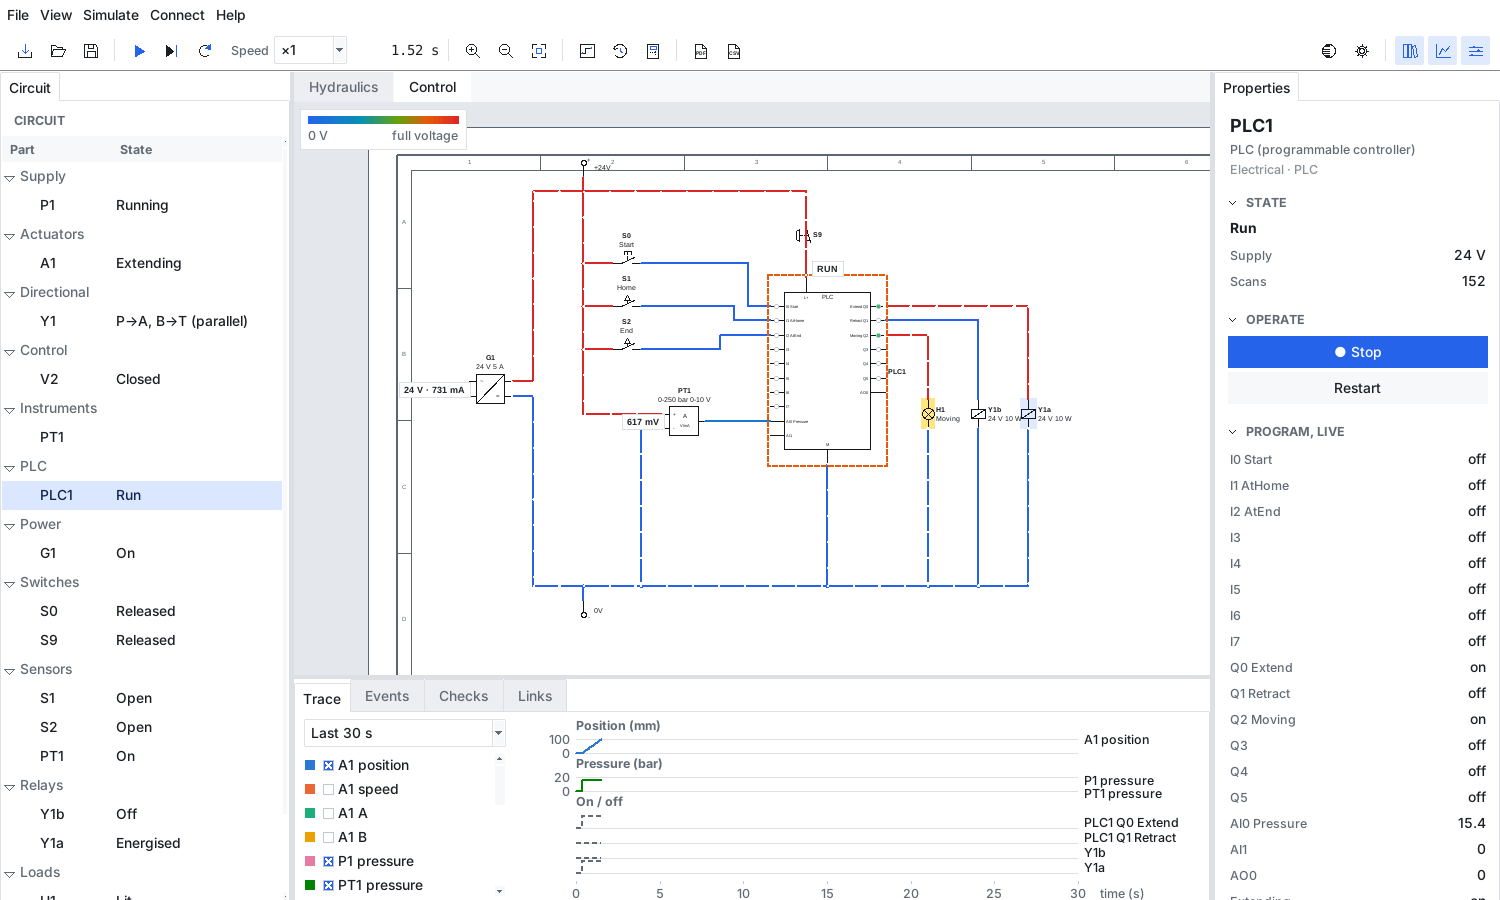
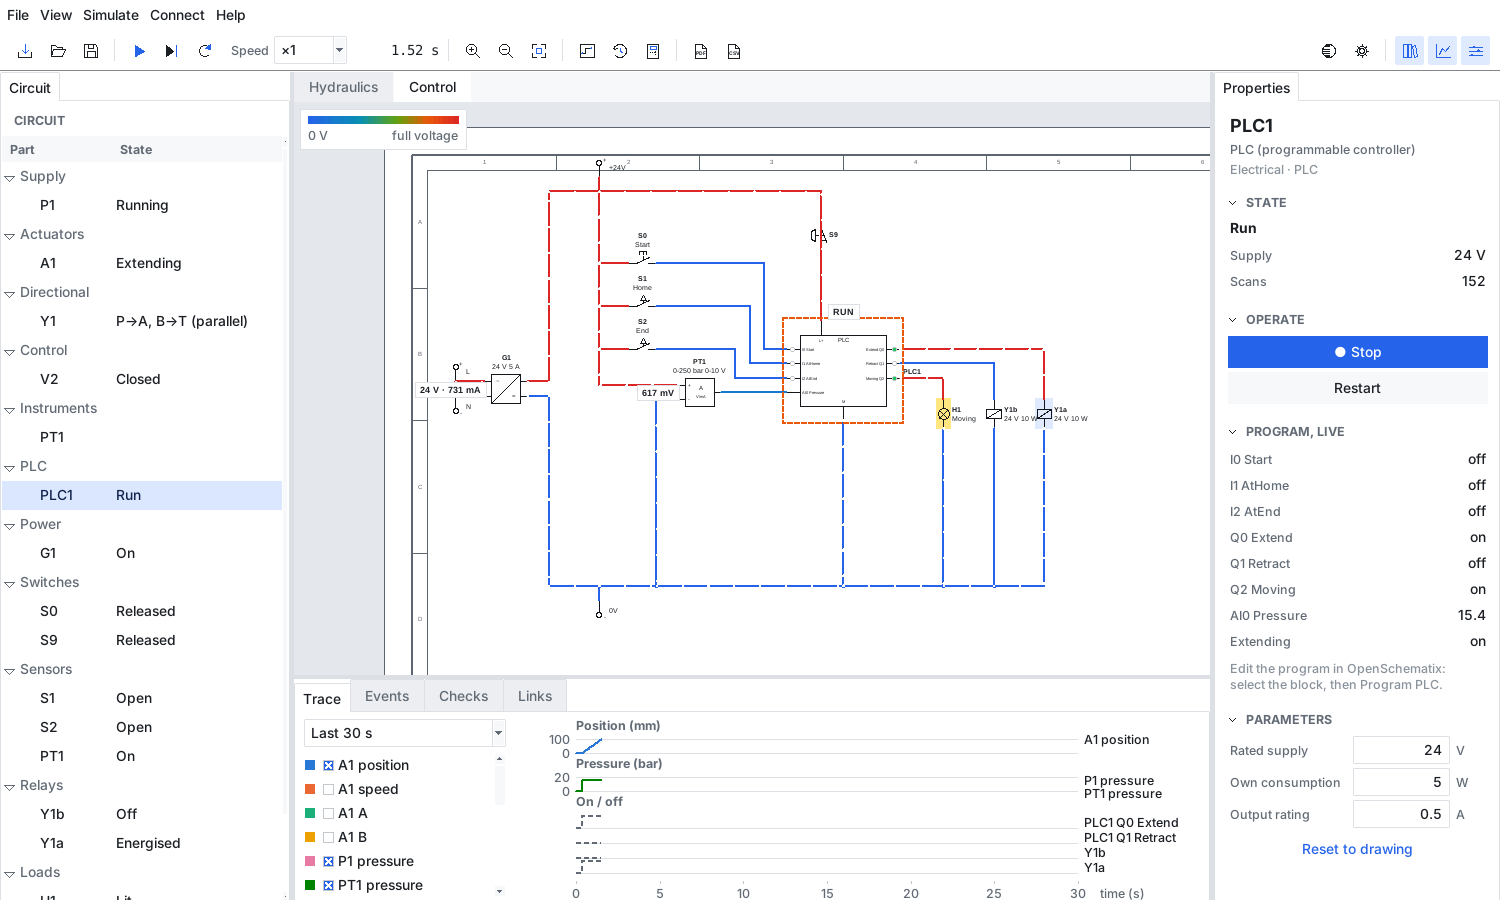
Make the examples clean drawings too
OpenSchematix's own check reported errors on them: a relay's contacts share its tag, but it wants terminal numbers to tell
them apart. Those are in, as are mains on the PLC example's power supply and only the I/O it uses. A test keeps it that way.

Claude-Session: https://claude.ai/code/session_015TrW5C5ksqqULAxD9BPppW

diff --git a/tools/make_examples.py b/tools/make_examples.py
@@ -30,9 +30,12 @@ class B:
         self.n += 1
         return self.n
 
-    def part(self, symbol, x, y, des="", label="", rot=0, mirror=False, params=None, props=None):
+    def part(self, symbol, x, y, des="", label="", rot=0, mirror=False, params=None, props=None, numbered=None):
+        """`numbered` are terminal designations, as "13", "14": what tells a relay's contacts apart on a drawing."""
         c = Component(id=self._id(), symbol=symbol, x=x, y=y, rotation=rot, mirror=mirror, designator=des, label=label,
                       params=params or {}, props=props or {})
+        if numbered:
+            c.terminal_labels = dict(zip([t.name for t in c.terminal_defs()], numbered))
         self.doc.components[c.id] = c
         return c
 
@@ -307,39 +310,43 @@ def plc_cylinder():
     b.tee(pt_h, "P", (ax, 340), via=[(620, 340)])
     b.sheet("Control")
     psu = b.part("el.psu", 170, 365, "G1", "24 V 5 A")
+    b.wire(b.part("el.rail.pos", 100, 335, label="L"), "1", psu, "L")
+    b.wire(b.part("el.rail.neg", 100, 395, label="N"), "1", psu, "N")
     b.line(psu.terminals()["+"], (230, 355), (230, 90), (610, 90))
     b.line(psu.terminals()["-"], (230, 375), (230, 640), (920, 640))
     b.tee(b.part("el.rail.pos", 300, 50, label="+24V"), "1", (300, 90))
     b.tee(b.part("el.rail.neg", 300, 680, label="0V"), "1", (300, 640))
-    b.line((300, 90), (300, 400))       # what feeds the inputs
-    params = {"di": 8, "do": 6, "ai": 2, "ao": 1, "do_type": "source",
+    params = {"di": 3, "do": 3, "ai": 1, "ao": 0, "do_type": "source",
               "tags": {"I0": "Start", "I1": "AtHome", "I2": "AtEnd", "AI0": "Pressure", "Q0": "Extend", "Q1": "Retract", "Q2": "Moving"},
               "program": {"scan_ms": 10, "io": {"AI0": {"signal": "0-10V", "lo": 0, "hi": 250, "note": "PT1, bar"}},
                           "vars": [{"name": "Extending", "type": "BOOL", "init": "", "note": "the rod is on its way out"}],
                           "pous": [{"name": "Cycle", "lang": "st", "source": ST_CYCLE}]}}
     plc = b.part("el.plc", 640, 340, "PLC1", params=params)
+    pins = plc.terminals()
     start = b.part("el.pushbutton.no.iec", 360, 190, "S0", "Start")
     home = b.part("el.switch.limit.no", 360, 250, "S1", "Home", props={"Senses": "A1 retracted"})
     end = b.part("el.switch.limit.no", 360, 310, "S2", "End", props={"Senses": "A1 extended"})
-    pt = b.part("el.sensor.analog", 440, 410, "PT1", "0-250 bar 0-10 V")
+    pt = b.part("el.sensor.analog", 440, pins["AI0"][1], "PT1", "0-250 bar 0-10 V")
+    plus_y = pt.terminals()["+"][1]
+    b.line((300, 90), (300, plus_y))        # what feeds the inputs
     for device, y in ((start, 190), (home, 250), (end, 310)):
         b.tee(device, "1", (300, y))
-    b.wire(start, "2", plc, "I0", via=[(530, 190), (530, 250)])
-    b.wire(home, "2", plc, "I1", via=[(510, 250), (510, 270)])
-    b.wire(end, "2", plc, "I2", via=[(490, 310), (490, 290)])
-    b.tee(pt, "+", (300, 400))
-    b.tee(pt, "-", (380, 640), via=[(380, 420)])
+    b.wire(start, "2", plc, "I0", via=[(530, 190), (530, pins["I0"][1])])
+    b.wire(home, "2", plc, "I1", via=[(510, 250), (510, pins["I1"][1])])
+    b.wire(end, "2", plc, "I2", via=[(490, 310), (490, pins["I2"][1])])
+    b.tee(pt, "+", (300, plus_y))
+    b.tee(pt, "-", (380, 640), via=[(380, pt.terminals()["-"][1])])
     b.wire(pt, "OUT", plc, "AI0")
-    estop = b.part("el.estop", 610, 150, "S9", **DOWN)
-    b.tee(estop, "1", (610, 90))
+    estop = b.part("el.estop", pins["L+"][0], 150, "S9", **DOWN)
+    b.tee(estop, "1", (pins["L+"][0], 90))
     b.wire(estop, "2", plc, "L+")
-    b.tee(plc, "M", (640, 640))
+    b.tee(plc, "M", (pins["M"][0], 640))
     lamp = b.part("el.lamp.iec", 780, 400, "H1", "Moving", **DOWN)
     yb = b.part("el.coil.valve", 850, 400, "Y1b", "24 V 10 W")
     ya = b.part("el.coil.valve", 920, 400, "Y1a", "24 V 10 W")
-    b.wire(plc, "Q0", ya, "A1", via=[(920, 250)])
-    b.wire(plc, "Q1", yb, "A1", via=[(850, 270)])
-    b.wire(plc, "Q2", lamp, "1", via=[(780, 290)])
+    b.wire(plc, "Q0", ya, "A1", via=[(920, pins["Q0"][1])])
+    b.wire(plc, "Q1", yb, "A1", via=[(850, pins["Q1"][1])])
+    b.wire(plc, "Q2", lamp, "1", via=[(780, pins["Q2"][1])])
     for load, pin in ((lamp, "2"), (yb, "A2"), (ya, "A2")):
         x = load.terminals()[pin][0]
         b.tee(load, pin, (x, 640))
@@ -372,7 +379,7 @@ def relay_latch():
     start = b.part("el.pushbutton.no.nema", 320, y, "S1", "Start")
     dwell = b.part("el.contact.nc.nema", 480, y, "KT1")
     k1 = b.part("el.coil.nema", 760, y, "K1")
-    hold = b.part("el.contact.no.nema", 320, y + 60, "K1")
+    hold = b.part("el.contact.no.nema", 320, y + 60, "K1", numbered=("13", "14"))
     b.tee(stop, "1", (x0, y))
     b.wire(stop, "2", start, "1")
     b.wire(start, "2", dwell, "1")
@@ -381,13 +388,13 @@ def relay_latch():
     b.tee(hold, "1", (260, y), via=[(260, y + 60)])
     b.tee(hold, "2", (400, y), via=[(400, y + 60)])
     y = 270     # rung 2: extend while the latch holds
-    c = b.part("el.contact.no.nema", 320, y, "K1")
+    c = b.part("el.contact.no.nema", 320, y, "K1", numbered=("23", "24"))
     ya = b.part("el.coil.nema", 760, y, "Y1a")
     b.tee(c, "1", (x0, y))
     b.wire(c, "2", ya, "1")
     b.tee(ya, "2", (x1, y))
     y = 340     # rung 3: otherwise retract, until home
-    c = b.part("el.contact.nc.nema", 320, y, "K1")
+    c = b.part("el.contact.nc.nema", 320, y, "K1", numbered=("31", "32"))
     home = b.part("el.switch.limit.nc", 480, y, "S2", "Home", props={"Senses": "A1 retracted"})
     yb = b.part("el.coil.nema", 760, y, "Y1b")
     b.tee(c, "1", (x0, y))
@@ -395,7 +402,7 @@ def relay_latch():
     b.wire(home, "2", yb, "1")
     b.tee(yb, "2", (x1, y))
     y = 420     # rung 4: lamp
-    c = b.part("el.contact.no.nema", 320, y, "K1")
+    c = b.part("el.contact.no.nema", 320, y, "K1", numbered=("43", "44"))
     lamp = b.part("el.lamp.iec", 760, y, "H1", "Cycle running")
     b.tee(c, "1", (x0, y))
     b.wire(c, "2", lamp, "1")
@@ -442,10 +449,10 @@ def motor_starter():
     x0, x1 = ladder_rails(b, 140, 410)
     y = 140     # the start/stop latch, broken by the overload
     stop = b.part("el.pushbutton.nc.nema", 200, y, "S0", "Stop")
-    trip = b.part("el.contact.nc.nema", 300, y, "F1")
+    trip = b.part("el.contact.nc.nema", 300, y, "F1", numbered=("95", "96"))
     start = b.part("el.pushbutton.no.nema", 420, y, "S1", "Start")
     coil = b.part("el.coil.nema", 760, y, "K1")
-    hold = b.part("el.contact.no.nema", 420, y + 60, "K1")
+    hold = b.part("el.contact.no.nema", 420, y + 60, "K1", numbered=("13", "14"))
     b.tee(stop, "1", (x0, y))
     b.wire(stop, "2", trip, "1")
     b.wire(trip, "2", start, "1")
@@ -453,10 +460,10 @@ def motor_starter():
     b.tee(coil, "2", (x1, y))
     b.tee(hold, "1", (360, y), via=[(360, y + 60)])
     b.tee(hold, "2", (500, y), via=[(500, y + 60)])
-    for y, tag, symbol, lamp_tag, text in ((270, "K1", "el.contact.no.nema", "H1", "Running"),
-                                           (340, "S3", "el.switch.pressure.no", "H2", "Pressure OK"),
-                                           (410, "F1", "el.contact.no.nema", "H3", "Overload")):
-        c = b.part(symbol, 420, y, tag)
+    for y, tag, symbol, numbers, lamp_tag, text in ((270, "K1", "el.contact.no.nema", ("23", "24"), "H1", "Running"),
+                                                    (340, "S3", "el.switch.pressure.no", None, "H2", "Pressure OK"),
+                                                    (410, "F1", "el.contact.no.nema", ("97", "98"), "H3", "Overload")):
+        c = b.part(symbol, 420, y, tag, numbered=numbers)
         lamp = b.part("el.lamp.iec", 760, y, lamp_tag, text)
         b.tee(c, "1", (x0, y))
         b.wire(c, "2", lamp, "1")

diff --git a/tests/test_electric_examples.py b/tests/test_electric_examples.py
@@ -26,6 +26,22 @@ def until(sim, test, limit):
     return sim.time - t0
 
 
+@pytest.mark.parametrize("name", ["plc_cylinder", "relay_latch", "motor_starter_pump", "electronics_threshold"])
+def test_openschematix_finds_nothing_wrong_with_them(name):
+    """They're drawings first: a relay's contacts share its tag, told apart by their terminal numbers, as OpenSchematix wants."""
+    from fluidworx.vendor.openschematix import check
+    c, _sim = run_example(f"{name}.schematix")
+    assert not [i.message for i in check.check(c.project) if i.severity == check.ERROR]
+
+
+def test_plc_cylinder_is_powered_from_the_mains_it_shows():
+    c, sim = run_example("plc_cylinder.schematix")
+    sim.run(0.2)
+    psu = tag(sim, "G1")
+    assert psu.status() == "On" and not psu.always_on
+    assert {r[2] for r in c.el_rails} == {"L"}, "L is live because of its label; N is 0 V; the 24 V side is fed by the supply"
+
+
 def test_plc_cylinder_goes_out_and_back_on_its_own():
     c, sim = run_example("plc_cylinder.schematix")
     assert not [i for i in c.issues if i.level != "info"], c.issues
